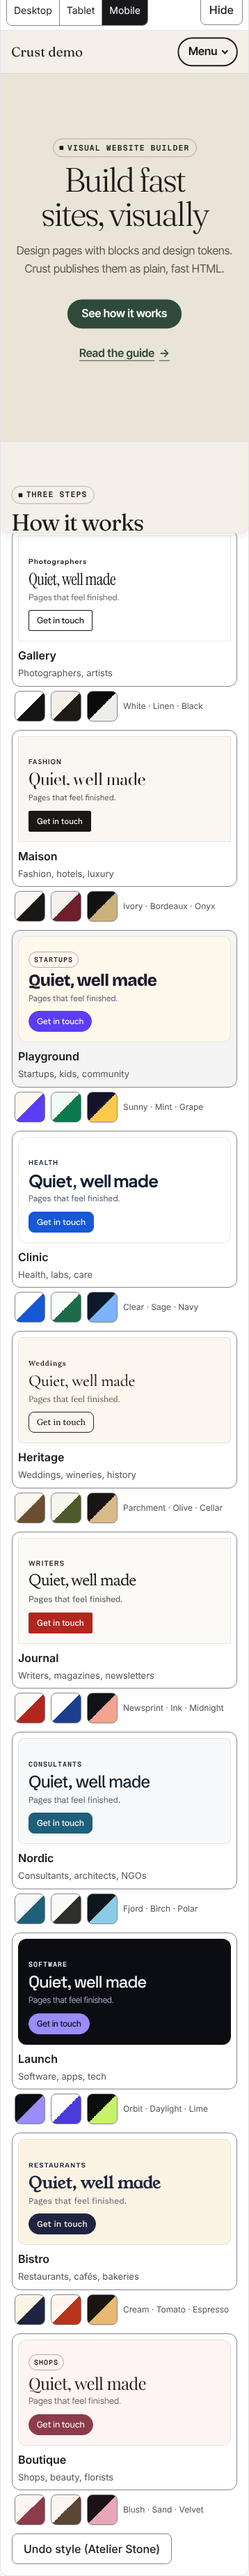
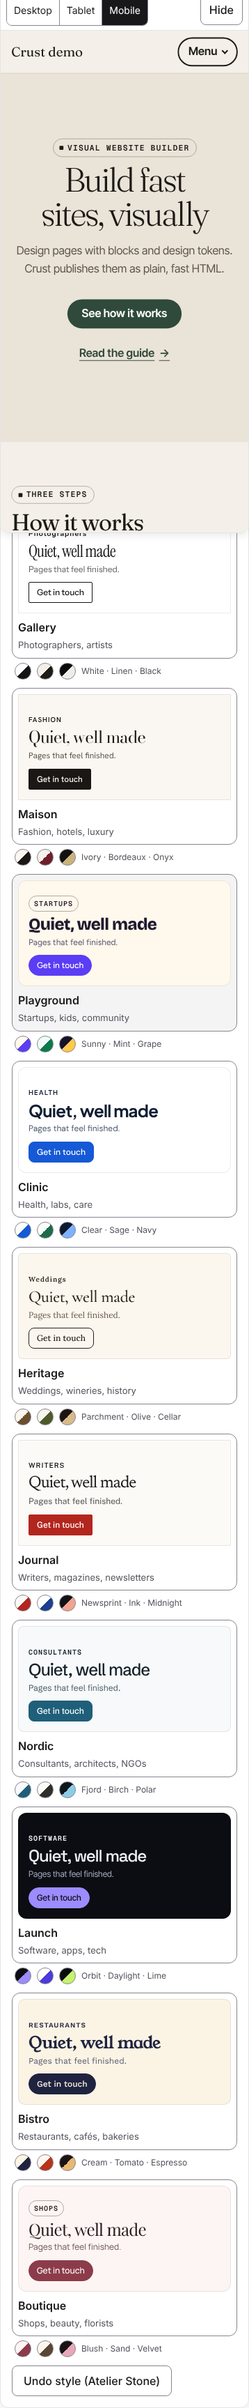
F072: Style library finished
Colourway dots get their own classes (.st-cw*) so they draw round
instead of picking up the colour picker's square style; screenshots
re-shot. DECISIONS "F072", spec note, PROGRESS, CHANGELOG, HANDOVER.
done_check (npm test -- style-library && npm run check:builder) exit 0.

Claude-Session: https://claude.ai/code/session_01W2ZFMsg525Up4JSRBYfUHb

diff --git a/apps/admin/src/settings/SiteSettings.tsx b/apps/admin/src/settings/SiteSettings.tsx
@@ -710,7 +710,7 @@ function StyleLibrary({ tokens, onPick }: { tokens: SiteTokens; onPick: (look: S
               <span className="st-look-name">{look.name}</span>
               <span className="st-look-suits">{look.suits}</span>
             </button>
-            <div className="st-swatches" role="radiogroup" aria-label={`${look.name} colourway`}>
+            <div className="st-cws" role="radiogroup" aria-label={`${look.name} colourway`}>
               {look.variations.map((v) => {
                 const checked = on && current!.variation.id === v.id;
                 return (
@@ -721,13 +721,13 @@ function StyleLibrary({ tokens, onPick }: { tokens: SiteTokens; onPick: (look: S
                     aria-checked={checked}
                     aria-label={v.name}
                     title={v.name}
-                    className="st-swatch"
+                    className="st-cw"
                     style={{ background: `linear-gradient(135deg, ${v.colors.background} 50%, ${v.colors.primary} 50%)` }}
                     onClick={() => onPick(look, v)}
                   />
                 );
               })}
-              <span className="st-swatch-name" aria-hidden="true">{on ? current!.variation.name : look.variations.map((v) => v.name).join(" · ")}</span>
+              <span className="st-cw-name" aria-hidden="true">{on ? current!.variation.name : look.variations.map((v) => v.name).join(" · ")}</span>
             </div>
           </li>
         );

diff --git a/apps/admin/src/settings/settings.css b/apps/admin/src/settings/settings.css
@@ -182,11 +182,11 @@ body:has(.st) { margin: 0; }
 .st-look-btn { justify-self: start; margin-top: 4px; padding: 5px 11px; border: 1.5px solid; font-size: 0.75rem; font-weight: 500; }
 .st-look-name { font-weight: 600; }
 .st-look-suits { font-size: 0.8125rem; color: var(--st-muted); }
-.st-swatches { display: flex; align-items: center; gap: 8px; padding: 0 4px; }
+.st-cws { display: flex; align-items: center; gap: 8px; padding: 0 4px; }
 /* 24px targets with spacing (WCAG 2.5.8). */
-.st-swatch { width: 24px; height: 24px; padding: 0; border-radius: 50%; border: 1px solid var(--st-border); cursor: pointer; }
-.st-swatch[aria-checked="true"] { outline: 2px solid var(--st-action); outline-offset: 2px; }
-.st-swatch-name { font-size: 0.75rem; color: var(--st-muted); }
+.st-cw { width: 24px; height: 24px; padding: 0; border-radius: 50%; border: 1px solid var(--st-border); cursor: pointer; }
+.st-cw[aria-checked="true"] { outline: 2px solid var(--st-action); outline-offset: 2px; }
+.st-cw-name { font-size: 0.75rem; color: var(--st-muted); }
 
 /* F071: small label pictures */
 .st-label-pic { font-size: 0.75rem; font-weight: 600; }

diff --git a/HANDOVER.md b/HANDOVER.md
@@ -5,7 +5,7 @@ current: update "Where things stand" and "Next" every time a feature is
 finished and before a session ends. Details live in the files linked
 below; this file says where to look and what to do.
 
-Last updated: 2026-11-02 (Jakarta). PRs #53 (F062) and #45 (F053)
+Last updated: 2026-11-02 10:30 (Jakarta), F072 finished. PRs #53 (F062) and #45 (F053)
 **merged to main** (owner had said to merge). Then the owner said our
 templates aren't premium next to eliras/zorven/labzzy.webflow.io and
 chose **B: upgrade the design layer, "all in"**, and asked for a
@@ -26,28 +26,17 @@ DECISIONS "F070"). How it fits: `packages/blocks/src/fonts.ts`
 `f071-type-styles`, stacked on f070-fonts; DECISIONS "F071"): style
 options in `style-options.ts` (`displaySize`, `labelsUseMono`), Heading
 `size`/`eyebrow`, Button soft/arrow, Card `layout: cover`, UI in
-`StyleGroups.tsx` (`DisplayOptions`). **F072 Style library: in progress, paused by the owner
-(2026-11-02)** on branch `f072-style-library` (stacked on
-f071-type-styles; WIP PR). Snapshot
-https://claude.ai/artifact/GaX1QoHvVTp8S3bU1ybxsa (A built: grid of
-looks with colourway dots). Done so far: `packages/blocks/src/style-library.ts`
-(12 looks × 3 colourways, `applyLook`, `matchingLook`), 79 tests in
-`style-library.test.ts` (all 36 colourways pass contrast + section
-warnings), `StyleLibrary` in `SiteSettings.tsx` (group "presets" now
-labelled "Styles", Undo style restores colours/fonts/style/section
-styles/radius), old preset tests rewritten, two check:builder screens;
-done_check `npm test -- style-library && npm run check:builder` exited 0.
-**Left to do:** (1) rename `.st-swatch`/`.st-swatches`/`.st-swatch-name`
-in the StyleLibrary JSX and its CSS block in `settings.css` (F072 block)
-to `.st-cw*`: `.st-swatch` already styles the colour picker, so the
-colourway dots draw square (see `design/f072-styles.png`); re-shoot the
-screenshots with the scratch script pattern (Playwright over
-apps/admin/dist, click `.st-look:has-text("Atelier")`, screenshot
-`#presets`); (2) DECISIONS "F072" entry (looks replace presets in the UI,
-themePresets kept for old sites; header style per look dropped, comes
-with F076; undo keeps the first pre-look tokens across several picks);
-(3) set F072 `passes: true`, PROGRESS, CHANGELOG, spec note; (4) remove
-"WIP" from the PR title/body. Then **F073 Sections v2**. Branch `f063-store-site` (PR #54) holds the comparison
+`StyleGroups.tsx` (`DisplayOptions`). **F072 Style library built, passes** (branch `f072-style-library`,
+PR #57, stacked on f071-type-styles; DECISIONS "F072"). Snapshot
+https://claude.ai/artifact/GaX1QoHvVTp8S3bU1ybxsa (A built). How it
+fits: `packages/blocks/src/style-library.ts` (`styleLooks`, 12 looks ×
+3 colourways, `applyLook`, `matchingLook`), tests in
+`style-library.test.ts`, `StyleLibrary` in `SiteSettings.tsx` (dots are
+`.st-cw*` in `settings.css`). Screenshots `design/f072-styles*.png`
+(Playwright over apps/admin/dist: open `#/settings`, click
+`.st-look:has-text("Atelier")`, screenshot `#presets`).
+**Next: F073 Sections v2** (design snapshot first), on a new branch
+stacked on `f072-style-library`. Branch `f063-store-site` (PR #54) holds the comparison
 pages, the M8 write-up and a midnight test fix; no store code. Start
 F070 on a new branch from main once #54 is merged, or stack on it.
 This session can't start new sessions (chain limit): if it ends, the

diff --git a/DECISIONS.md b/DECISIONS.md
@@ -252,6 +252,37 @@ Features Claude suggests. They are not work until the owner adds them to
   (most shared hosting); Nginx hosts ignore it, harmlessly.
 
 
+## 2026-11-02 — F072 Style library (Claude, reversible)
+
+- Snapshot https://claude.ai/artifact/GaX1QoHvVTp8S3bU1ybxsa
+  (`design/f072-style-library-v1.html`): A a grid of looks with
+  colourway dots on each card (built); B a list of names with one big
+  preview; C three questions, then three suggestions. A lets the owner
+  compare looks side by side (recognition over recall), and each card is
+  drawn in its own fonts, colours, label and button, so it previews
+  honestly. B shows one look at a time; C hides most looks.
+- 12 looks × 3 colourways in `packages/blocks/src/style-library.ts`.
+  A look sets the font pair, the F028/F071 style options, the main
+  button look, the corner radius, colours and section styles. It leaves
+  spacing, page width and pages alone. All 36 colourways pass the
+  contrast checks and raise no section-style warnings (tests).
+- **No format change:** `applyLook` writes ordinary tokens;
+  `matchingLook` finds which look and colourway the tokens match, so
+  the current card is marked without storing a look id.
+- Looks replace the 9 colour presets in Site settings (group "presets"
+  now labelled "Styles"). `themePresets` stays in code for older sites
+  and the tests that use it; nothing stored refers to it.
+- Header style per look is left out: it comes with F076 (header
+  styles), so the looks don't promise a header we can't draw yet.
+- "Undo style" keeps the tokens from before the *first* look picked in
+  this visit, even after several picks, so trying looks one after
+  another is always one step from where you started. It restores
+  colours, fonts, style options, section styles and radius.
+- Colourway dots are 24 px round radio buttons with 8 px gaps (WCAG
+  2.5.8); each has its colourway's name as label; the selected one has a
+  2 px outline. Their classes are `.st-cw*`, because `.st-swatch` already
+  styles the colour picker and made the dots square.
+
 ## 2026-11-02 — F071 Type and detail styles (Claude, reversible)
 
 - Snapshot https://claude.ai/artifact/H3pscypcAov3mFHwoMHAHS

diff --git a/PROGRESS.md b/PROGRESS.md
@@ -5,10 +5,14 @@ to "Log".
 
 ## Current
 
-- **F072 Style library: in progress, paused** (branch
-  `f072-style-library`, WIP PR). See HANDOVER.md for what's left (one
-  CSS class clash, docs). PRs #54 → #55 (F070) → #56 (F071) are green
-  and ready to merge in that order.
+- **F072 Style library: built, passes** (branch `f072-style-library`,
+  PR #57, stacked on F071's PR). Snapshot
+  https://claude.ai/artifact/GaX1QoHvVTp8S3bU1ybxsa, A built.
+  **To try** on the PR's preview link: Site settings → Styles, press a
+  few look cards and the colourway dots under them, then "Undo style".
+  Screenshots `design/f072-styles*.png`. Needs `reviewed: true`.
+  PRs #54 → #55 (F070) → #56 (F071) → #57 (F072) merge in that order.
+  Next: F073 Sections v2.
 - **F071 Type and detail styles: built, passes** (branch
   `f071-type-styles`, stacked on F070's PR). Snapshot
   https://claude.ai/artifact/H3pscypcAov3mFHwoMHAHS, A built. **To try:**
@@ -726,3 +730,4 @@ to "Log".
   #53 (F062) and #45 (F053, notes conflicts resolved by keeping both
   sides) once their CI was green. Main now has Milestones 1–6. Next:
   F063 Store site, from main.
+- 2026-11-02: F072 Style library finished (colourway dot class clash fixed, screenshots re-shot, DECISIONS "F072"); done_check exit 0.

diff --git a/CHANGELOG.md b/CHANGELOG.md
@@ -4,6 +4,16 @@ User-visible changes, newest first, in plain language.
 
 ## Unreleased
 
+- **A style library (F072).** Site settings → **Styles** now offers
+  12 complete looks, such as Atelier, Studio, Maison, Clinic and
+  Bistro, each in three colourways. A look sets fonts, headings, small
+  labels, buttons, cards, links and corners in one go; your pages,
+  spacing and page width stay as they are. Each card is drawn in its
+  own look, and the dots under it switch colourway. "Undo style" takes
+  you back to how the site looked before you started trying looks. The
+  looks replace the 9 colour presets; sites that used a preset keep
+  their colours.
+
 - **Display headings, small labels, more buttons and photo cards
   (F071).** A Heading can now be **Display** size, a step above H1, and
   can have a **small label above** it, like "ARCHITECTURE STUDIO".

diff --git a/docs/spec.md b/docs/spec.md
@@ -106,7 +106,9 @@ F071 adds `displayWeight`, `displayTracking` and `labelStyle` (`plain`,
 `tightest`. A Heading block may carry `size` (`"display"`) and
 `eyebrow` (a small label above it); a Button's `variant` may be
 `"soft"` or `"arrow"`; a Card may carry `layout: "cover"` (the photo
-fills the card).
+fills the card). The style library (F072, Site settings → Styles)
+writes only these ordinary tokens (fonts, colours, `style`,
+`sectionStyles`, `radius`); no look id is stored.
 
 Any block's props may carry `hideOn` (optional, added with F029): a list of
 `"desktop"`, `"tablet"`, `"phone"`. A Columns block may carry `widths`
